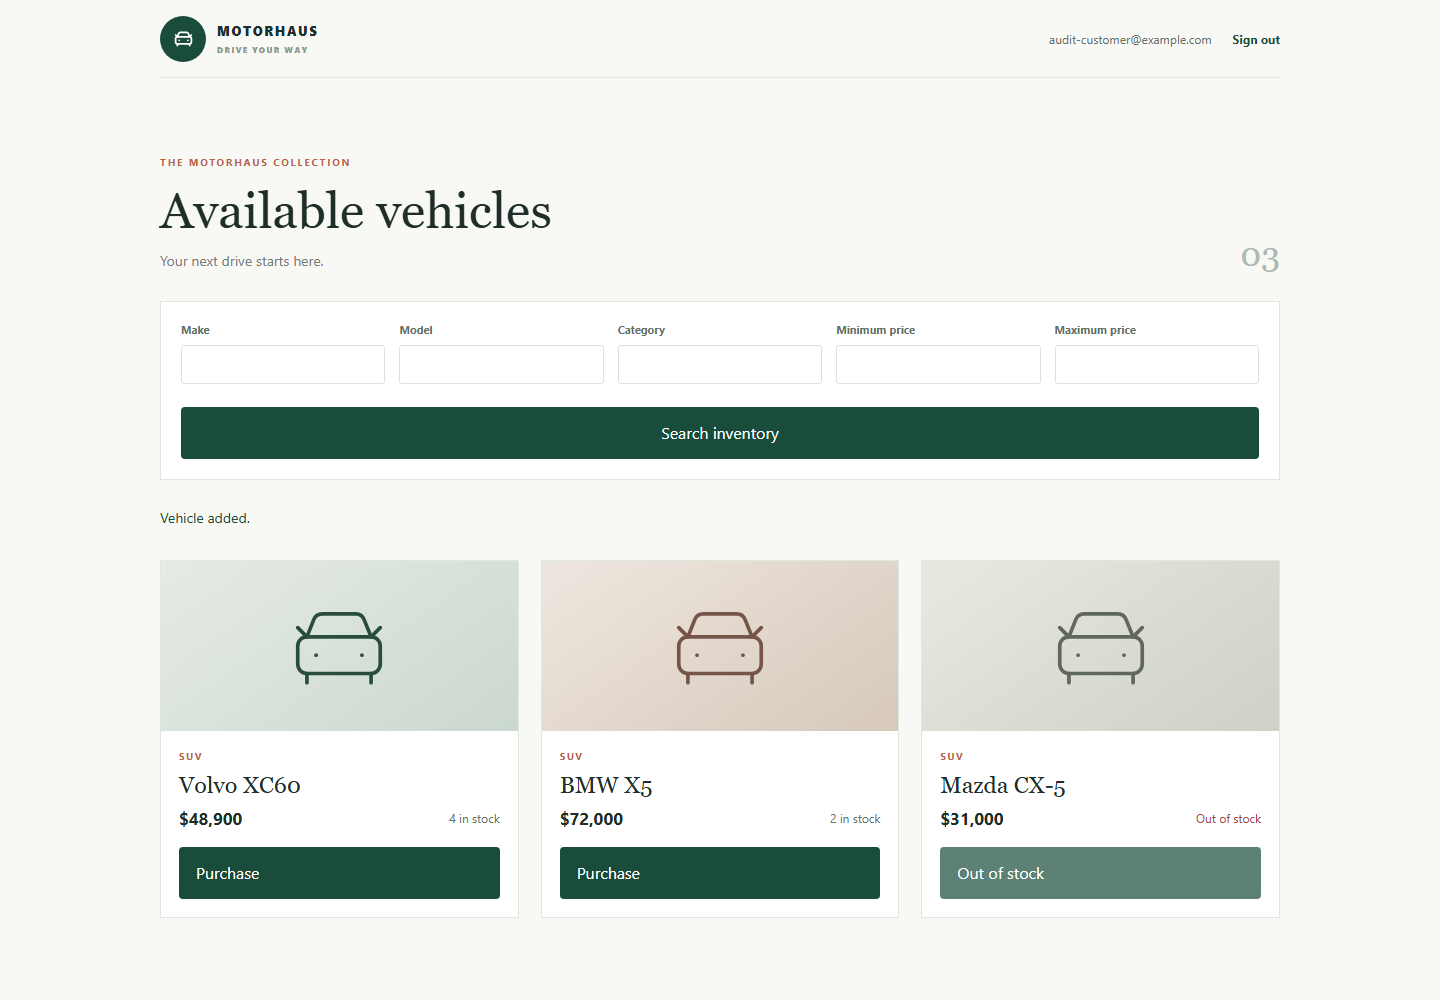
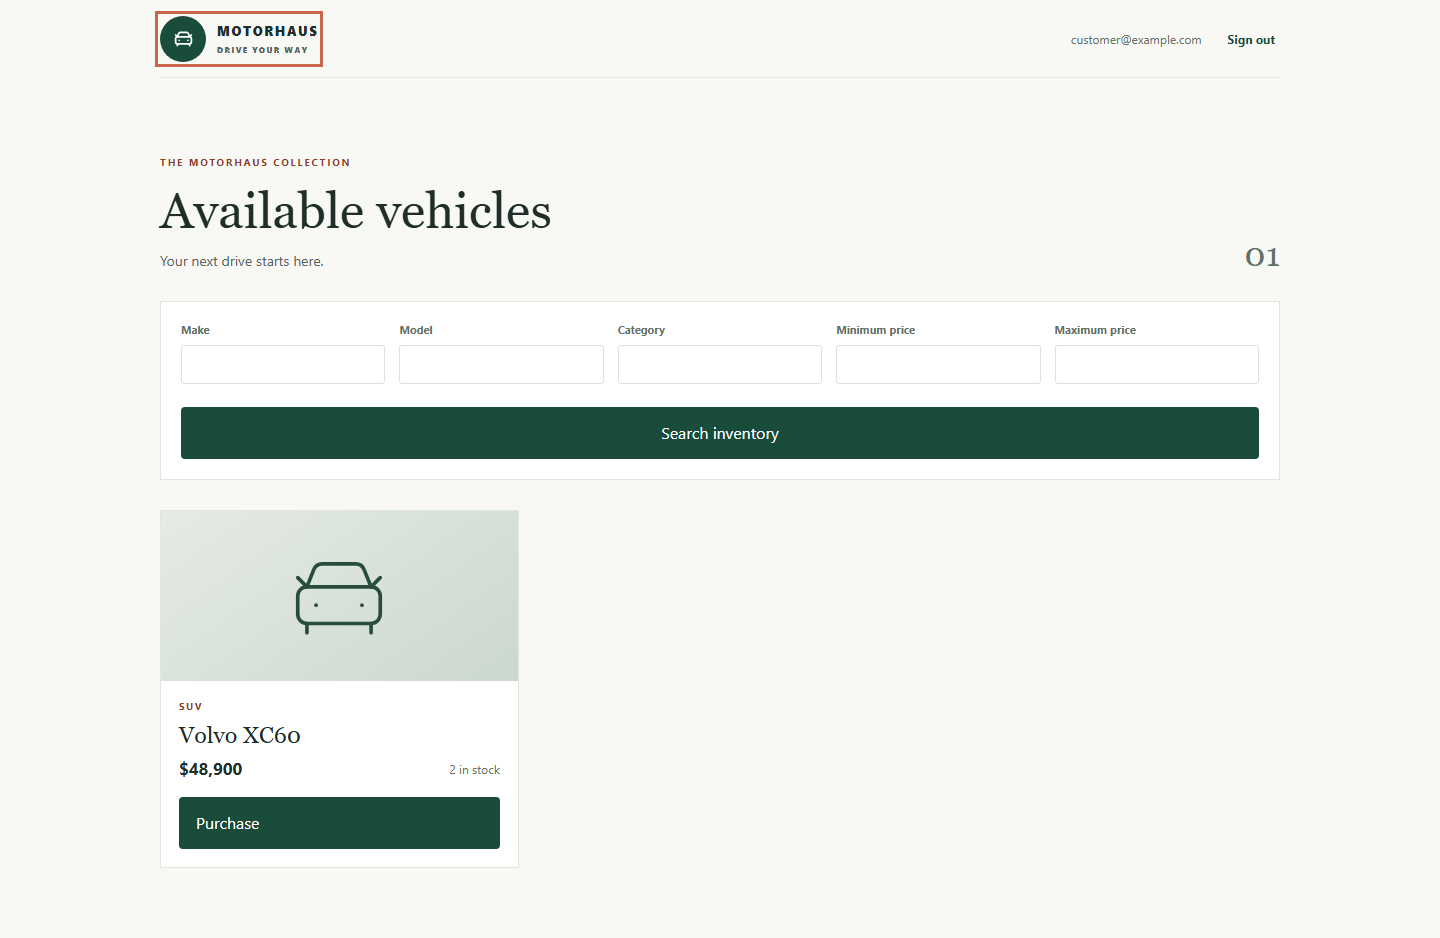
docs: record responsive accessibility audit

diff --git a/TEST_REPORT.md b/TEST_REPORT.md
@@ -70,7 +70,28 @@ These checks were run on the local `submission/tdd-kata` worktree after the sour
 | `pnpm build` | **Passed**, Vite transformed 1,579 modules; CSS 11.63 kB and JS 197.37 kB before gzip. |
 | `git diff --check` | **Passed**; Git printed only line-ending conversion notices for edited Markdown files. |
 
-The refreshed `screenshots/admin-inventory.png` and `screenshots/customer-inventory.png` were captured with Playwright from the running local SPA and API; both images were opened and visually inspected. GitHub Actions run [40183837168](https://github.com/shashank-bhat10/car-dealership-inventory-assessment/actions/runs/40183837168) completed successfully on commit `15b61226b46e42470ae89bd8c62ea209944c4cf7`; frontend and backend jobs both passed, including tests, lint, build, and migrations. This run includes all application, test, and screenshot changes. This report/checklist update is documentation-only. No PostgreSQL service test or screen-reader/device compatibility matrix was run.
+The earlier refresh of `screenshots/admin-inventory.png` and `screenshots/customer-inventory.png` was captured from the local SPA/API and visually inspected. GitHub Actions run [40183927021](https://github.com/shashank-bhat10/car-dealership-inventory-assessment/actions/runs/40183927021) passed on commit `e301f754760dff678c51c67601208e86354ef85c`; this predates the responsive audit and its new browser job. The responsive audit and its screenshots are reported below. No PostgreSQL service test or screen-reader/device compatibility matrix was run.
+
+## Responsive and accessibility audit (2026-10-25)
+
+The audit uses Playwright 1.64.1 and axe-core 4.14.0. It starts a local Vite server and mocks deterministic authentication and inventory API responses; it exercises the SPA controls, not the backend integration. The script is repeatable with `pnpm test:responsive` from `frontend`. Screenshot capture is enabled with `pnpm test:responsive -- --screenshots` and refreshes the three PNGs in `screenshots/` at 1440×900.
+
+| Exact command | Observed result |
+| --- | --- |
+| `pnpm test:responsive` before UI fixes; the failing audit is preserved in test commit `faf11ada215da3db47568baf98b235a183ea9f87` | Exit code 1; all 12 screen/viewport combinations ran and reported **35 findings**: horizontal overflow at narrow inventory widths, controls below 24 CSS pixels, axe-core color contrast violations, and a brand link accessible-name mismatch. |
+| `pnpm test:responsive` after UI fixes, on implementation commit `aa7913259888ade06ff3469f64f2a940a65320e8` | **Passed** all 12 combinations: sign-in, customer inventory, and admin inventory at 320×640, 375×812, 768×1024, and 1440×900. Checks found no horizontal overflow; input/button/link controls had names and at least 24×24 CSS-pixel targets; first keyboard Tab focus was visibly outlined; axe-core found no violations tagged WCAG 2.1 A/AA. The script completed customer search and purchase plus admin add/edit/restock/delete flows in each viewport. |
+| `pnpm test:responsive -- --screenshots` | **Passed** all 12 combinations and captured the refreshed sign-in, customer, and administrator screenshots at 1440×900. The images were opened and visually inspected. |
+| `pnpm test` | **15 passed**, 1 Vitest file, 2.49s. |
+| `pnpm lint` | **Passed** after extending ESLint's file match to include the Node `.mjs` audit script. An earlier run failed with 21 `no-undef` findings because `.mjs` did not match the configured JavaScript files. |
+| `pnpm build` | **Passed**; Vite transformed 1,579 modules; CSS 12.08 kB and JS 197.34 kB before gzip. |
+| `$env:PYTHONPATH='.'; .\.venv\Scripts\python.exe -m pytest --cov=app --cov-report=term-missing` | **37 passed** in 25.55s; **94% coverage** (210 statements, 12 missed); one upstream Starlette `anyio.abc.BlockingPortal` deprecation warning. |
+| `.\.venv\Scripts\ruff.exe check app tests` | **All checks passed!** |
+| `$env:DATABASE_URL='sqlite:///./final-responsive-audit-20261025.db'; .\.venv\Scripts\alembic.exe -c alembic.ini upgrade head` | **Passed** on a fresh SQLite database; applied `0001_initial` and `0002_vehicle_constraints`. |
+| `git diff --check` | **Passed** after the final edits. |
+
+The colors and target sizes were adjusted based on the observed axe/viewport findings, the topbar now wraps at narrow widths, and the brand link relies on its visible text for its accessible name. The audit covers these browser states and viewport sizes only; it is not a full screen-reader audit or a physical-device compatibility test. The Browser audit package installation reported deprecated `eslint@9.19.0` and transitive `whatwg-encoding@3.1.1`; those warnings were left visible and were not changed as part of this task. The screenshots use deterministic mocked API responses and are labeled accordingly in the README.
+
+The backend review found no worthwhile refactor: the shared filter query is already extracted and conditional SQL updates already guard purchase/restock boundaries. No backend source or history was changed. The decision and evidence are recorded in `TDD_LOG.md`.
 
 ## TDD evidence
 

diff --git a/README.md b/README.md
@@ -6,8 +6,9 @@ The public repository's default branch is `submission/tdd-kata`, so the reposito
 
 ## Screenshots
 
-Captured from the running app on the local development server:
+Captured from the running SPA during the Playwright viewport audit with deterministic API fixtures:
 
+- [Sign-in screen](screenshots/sign-in.png)
 - [Customer inventory](screenshots/customer-inventory.png)
 - [Administrator inventory](screenshots/admin-inventory.png)
 
@@ -86,12 +87,12 @@ Vehicle input validates non-empty make/model/category, positive price, integer q
 
 ## Tests and evidence
 
-Run backend checks from `backend`: `$env:PYTHONPATH='.'; .\.venv\Scripts\python.exe -m pytest --cov=app --cov-report=term-missing`, `.\.venv\Scripts\ruff.exe check app tests`, and `$env:DATABASE_URL='sqlite:///./fresh-check.db'; .\.venv\Scripts\alembic.exe upgrade head`. Run frontend checks from `frontend`: `pnpm test`, `pnpm lint`, `pnpm build`. Exact observed commands, results, warnings and unverified checks are in [TEST_REPORT.md](TEST_REPORT.md). Requirement evidence is mapped in [REQUIREMENTS_CHECKLIST.md](REQUIREMENTS_CHECKLIST.md). Actual test-first commit IDs and red/green outcomes are in [TDD_LOG.md](TDD_LOG.md).
+Run backend checks from `backend`: `$env:PYTHONPATH='.'; .\.venv\Scripts\python.exe -m pytest --cov=app --cov-report=term-missing`, `.\.venv\Scripts\ruff.exe check app tests`, and `$env:DATABASE_URL='sqlite:///./fresh-check.db'; .\.venv\Scripts\alembic.exe upgrade head`. Run frontend checks from `frontend`: `pnpm test`, `pnpm test:responsive`, `pnpm lint`, `pnpm build`. The repeatable Playwright audit starts Vite, checks sign-in/customer/admin screens at 320×640, 375×812, 768×1024, and 1440×900, exercises customer/admin flows, checks overflow, labeled controls, 24 CSS pixel minimum targets and visible keyboard focus, and runs axe-core WCAG 2.1 A/AA rules. It uses deterministic API fixtures and is not a live-backend integration run or a screen-reader audit. Install Chromium with `pnpm exec playwright install chromium` if needed. Exact observed commands, results, warnings and unverified checks are in [TEST_REPORT.md](TEST_REPORT.md). Requirement evidence is mapped in [REQUIREMENTS_CHECKLIST.md](REQUIREMENTS_CHECKLIST.md). Actual test-first commit IDs and red/green outcomes are in [TDD_LOG.md](TDD_LOG.md).
 
 ## My AI Usage
 
 ChatGPT helped prepare the implementation prompt. OpenAI Codex in the desktop app helped implement and test the project, including its API, migrations, SPA, backend and frontend tests, CI, and evidence documents. Codex also ran the recorded checks, captured screenshots with Playwright, inspected Git state, and verified the GitHub repository and Actions results with the GitHub connector and the repository's saved Git credential. The tools used included PowerShell shell commands and patch editing, the workspace Python and pnpm runtimes, Playwright for genuine browser screenshots, the document-reading workflow for the supplied assessment, Git, and GitHub's authenticated API for repository settings. [PROMPTS.md](PROMPTS.md) contains the supplied link to the Codex build and verification conversation. No original shareable ChatGPT conversation record was supplied for `PROMPTS.md`. The Git commit trailers identify AI-assisted commits as `OpenAI Codex <ai@users.noreply.github.com>`.
 
-**Personal reflection (please review before submission):**
+**Personal reflection:**
 
 I used ChatGPT to organize the assessment requirements into a clear prompt for Codex. Codex helped implement the backend and frontend, write tests, fix issues, and prepare the documentation. I reviewed the reported test and GitHub Actions results and asked for corrections when I found requirements that were still incomplete. This made the work faster, but it also showed me that AI-generated code and documentation need to be checked against the requirements and actual test results. I learned to verify the evidence before considering the project complete.

diff --git a/REQUIREMENTS_CHECKLIST.md b/REQUIREMENTS_CHECKLIST.md
@@ -21,10 +21,10 @@ Status reflects checks actually run in this build; evidence paths are repository
 | Purchase disabled at zero stock | dashboard control and UI test | Verified |
 | Admin add/update/delete/restock controls | dashboard workflows and `frontend/src/App.test.jsx` POST add, PUT edit, DELETE, POST restock request/outcome tests | Verified |
 | Tailwind use in the SPA | `@tailwindcss/vite`, Tailwind import, layout/form/button utilities in `frontend/src/App.jsx`, class test and production build | Verified |
-| Responsive/accessibility/loading/empty/error states | responsive rules in `frontend/src/style.css`, semantic labels/roles and retry flow in `App.jsx`; loading/empty/error-retry tests; screenshots visually inspected at desktop size | Partial (no automated screen-reader audit or multi-device matrix) |
+| Responsive/accessibility/loading/empty/error states | `frontend/scripts/responsive-audit.mjs` checks sign-in, customer, and admin screens at four requested viewports for overflow, named controls, 24 CSS pixel target size, visible keyboard focus, and axe-core WCAG 2.1 A/AA violations; responsive rules and retry-state tests | Verified for the automated checks; no full screen-reader audit was performed |
 | SPA/API browser origin access | configurable `FRONTEND_ORIGIN` CORS middleware and `backend/tests/test_cors.py` | Verified |
 | Backend and frontend tests | test suites in `backend/tests` and `frontend/src` | Verified |
-| CI tests, lint and production build | `.github/workflows/ci.yml`; run [40183837168](https://github.com/shashank-bhat10/car-dealership-inventory-assessment/actions/runs/40183837168) passed on `15b61226b46e42470ae89bd8c62ea209944c4cf7`; backend and frontend jobs succeeded | Verified |
+| CI tests, lint and production build | `.github/workflows/ci.yml` runs backend checks and frontend unit, Playwright/axe, lint, and production build steps; latest previously completed run [40183927021](https://github.com/shashank-bhat10/car-dealership-inventory-assessment/actions/runs/40183927021) passed on `e301f754760dff678c51c67601208e86354ef85c`, before the browser-audit CI step was added | Partial (local browser audit passes; CI for the new step will run after push) |
 | Red–Green–Refactor commit evidence | `TDD_LOG.md`, actual branch history, separate failing-test and implementation commits for final security, database, and Tailwind fixes | Verified; earlier history caveats are recorded in `TDD_LOG.md` |
-| Screenshots from running application | `screenshots/customer-inventory.png`, `screenshots/admin-inventory.png`; recaptured from the running local SPA/API after Tailwind changes and visually inspected | Verified |
+| Screenshots from running application | `screenshots/sign-in.png`, `screenshots/customer-inventory.png`, `screenshots/admin-inventory.png`; captured from the running SPA with deterministic API fixtures by the repeatable Playwright audit and visually inspected | Verified |
 | Genuine prompt records | `PROMPTS.md` contains the supplied Codex build conversation link. No original ChatGPT prompt-planning record was supplied. | Partial (Codex record is genuine; the ChatGPT record remains unavailable) |

diff --git a/TDD_LOG.md b/TDD_LOG.md
@@ -45,3 +45,15 @@ After adding `httpx==0.28.1`, the declared dependencies were installed into a cl
 Coverage additions for independent filters, every protected vehicle route, and missing restock IDs are in `8aaf44f`; focused vehicle/admin tests reported **15 passed** with one upstream warning and Ruff passed. They exercise existing routes rather than claim new behavior. The route-test fixture was later simplified in `afd536c` so admin-only endpoint tests seed an administrator directly instead of relying on the provisioning feature under test; focused admin tests then reported **5 passed**, one upstream warning, and Ruff passed.
 
 Integrity note: the first JWT test drafts in `a60f6f6` and `a27709f` imported `app.security` before that helper existed in branch history. Those drafts are not counted as red evidence. They were replaced by startup-level subprocess tests in `734513c`, which were run against a clean parent checkout before `1b65305` implemented the policy. No commits were rewritten or backdated.
+
+## Responsive and accessibility browser audit (2026-10-25)
+
+| Behavior or evidence | Test-first commit and observed red result | Implementation commit and observed green result |
+| --- | --- | --- |
+| Sign-in, customer inventory, and administrator inventory at 320×640, 375×812, 768×1024, and 1440×900 | `faf11ad`; `pnpm test:responsive` completed all 12 screen/viewport cases and exited 1 with **35 findings**, including narrow-screen horizontal overflow, controls below 24 CSS pixels, axe-core contrast failures, and an accessible-name mismatch. | `aa79132`; the same `pnpm test:responsive` command completed all 12 cases and exited 0: no overflow, all tested controls labeled and at least 24 CSS pixels, keyboard focus visible on Tab, and no axe WCAG 2.1 A/AA violations. The customer search/purchase and administrator add/edit/restock/delete flows also completed in each viewport. |
+
+The audit found contrast deficiencies in muted text and category labels, undersized text controls, a brand link whose explicit accessible name did not include its visible text, and horizontal overflow in the mobile inventory header. The follow-up removed the misleading explicit link name, darkened the affected text colors, increased text-button target size, and stacked/wrapped the narrow topbar. ESLint initially rejected the new `.mjs` audit script because the config only matched `.js` and `.jsx`; adding `.mjs` to that existing Node/browser lint scope made `pnpm lint` pass. No automated screen-reader audit was run.
+
+## Backend refactor review (2026-10-25)
+
+The actual backend source and history were reviewed. `vehicle_statement` already keeps the shared list/search filter construction in one place; purchase and restock use conditional SQL updates to preserve stock boundaries. No backend refactor was warranted because the remaining route repetition is small and a structural change would not improve clarity or safety. No backend files or backend commit history were changed during this audit. The backend suite was rerun and passed **37 tests** with **94% coverage** and one upstream Starlette/AnyIO deprecation warning.
